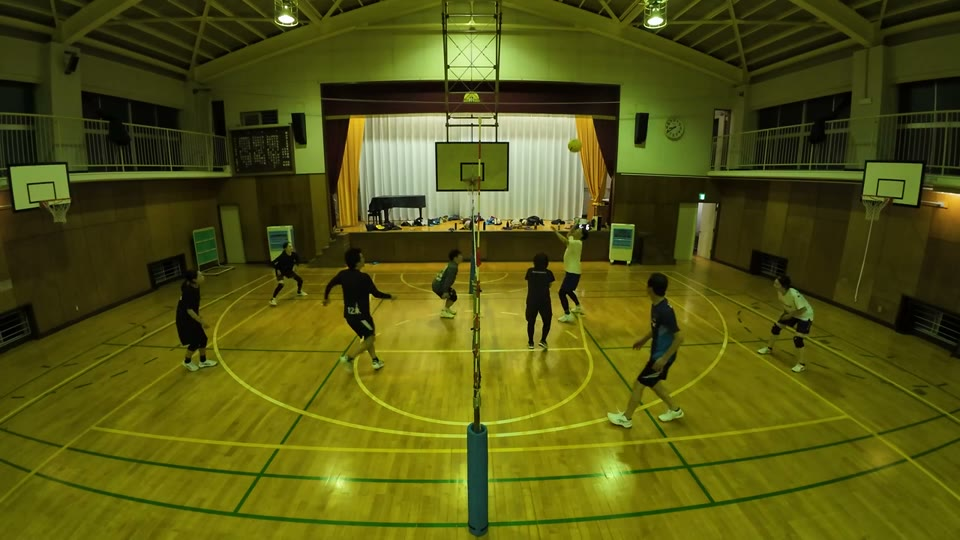
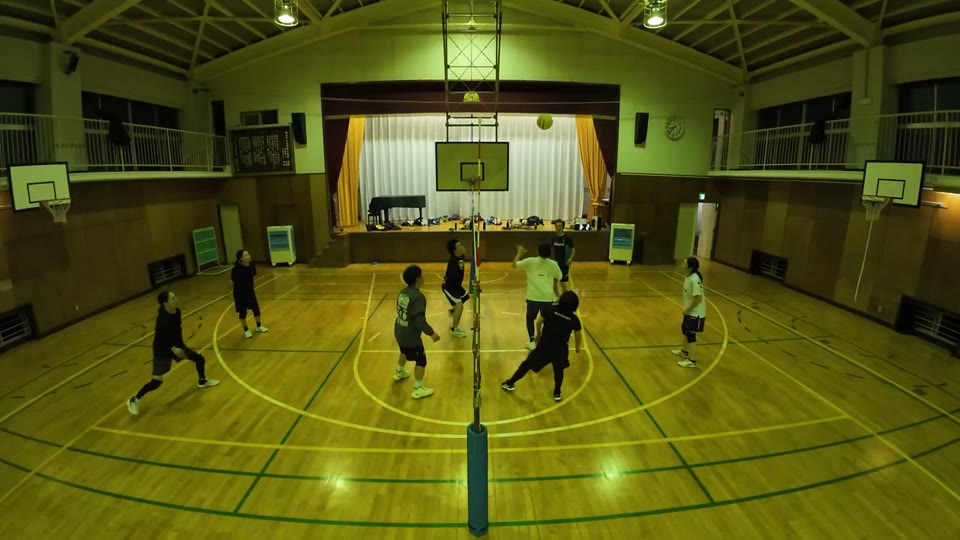
10/24 講評: 賞を11に(ゲストのきりちゃん・まゆみ・こうすけを該当の賞へ統合)

diff --git a/kouhyou/20261024.html b/kouhyou/20261024.html
@@ -383,33 +383,78 @@
       <span class="award-go"><svg viewBox="0 0 24 24" fill="none" stroke="currentColor" stroke-width="2.5"><path d="M9 5l7 7-7 7"></path></svg></span>
     </a>
     <a class="award" href="#award3">
-      <div class="award-faces"><img src="faces/yukiyo.jpg" alt="ゆきよ"><img src="faces/kazue.jpg" alt="かずえ"></div>
+      <div class="award-faces"><img src="faces/yukiyo.jpg" alt="ゆきよ"></div>
       <div class="award-body">
         <div class="award-label">ナイスレシーブ賞</div>
-        <div class="award-who">ゆきよ・かずえ・こうすけ・きりちゃん・まゆみ</div>
-        <div class="award-why">レシーブでつないだ</div>
+        <div class="award-who">ゆきよ・こうすけ・まゆみ</div>
+        <div class="award-why">何度も拾ってつないだ</div>
       </div>
       <span class="award-go"><svg viewBox="0 0 24 24" fill="none" stroke="currentColor" stroke-width="2.5"><path d="M9 5l7 7-7 7"></path></svg></span>
     </a>
     <a class="award" href="#award4">
-      <div class="award-faces"><img src="faces/riru.jpg" alt="りる"><img src="faces/aki.jpg" alt="あき"><img src="faces/yuriko.jpg" alt="ゆりこ"></div>
+      <div class="award-faces"><img src="faces/kazue.jpg" alt="かずえ"></div>
       <div class="award-body">
-        <div class="award-label">トス賞</div>
-        <div class="award-who">りる・あき・ゆりこ・きりちゃん・まゆみ・こうすけ</div>
-        <div class="award-why">トスでつないだ。バックトス・ジャンプトス、ジャッジも</div>
+        <div class="award-label">飛び込み賞</div>
+        <div class="award-who">かずえ・きりちゃん</div>
+        <div class="award-why">レシーブでつないだ</div>
       </div>
       <span class="award-go"><svg viewBox="0 0 24 24" fill="none" stroke="currentColor" stroke-width="2.5"><path d="M9 5l7 7-7 7"></path></svg></span>
     </a>
     <a class="award" href="#award5">
-      <div class="award-faces"><img src="faces/kazuo.jpg" alt="かずお"><img src="faces/yassan.jpg" alt="やっさん"><img src="faces/ken.jpg" alt="けん"><img src="faces/riru.jpg" alt="りる"></div>
+      <div class="award-faces"><img src="faces/riru.jpg" alt="りる"></div>
       <div class="award-body">
-        <div class="award-label">アタック賞</div>
-        <div class="award-who">かずお・やっさん・けん・りる</div>
-        <div class="award-why">アタック、フェイント、ブロックが決まった</div>
+        <div class="award-label">トス名人賞</div>
+        <div class="award-who">りる・まゆみ</div>
+        <div class="award-why">トスが安定。バックトスも。ジャッジも</div>
       </div>
       <span class="award-go"><svg viewBox="0 0 24 24" fill="none" stroke="currentColor" stroke-width="2.5"><path d="M9 5l7 7-7 7"></path></svg></span>
     </a>
     <a class="award" href="#award6">
+      <div class="award-faces"><img src="faces/aki.jpg" alt="あき"></div>
+      <div class="award-body">
+        <div class="award-label">安定トス賞</div>
+        <div class="award-who">あき・きりちゃん</div>
+        <div class="award-why">トスとサーブが安定</div>
+      </div>
+      <span class="award-go"><svg viewBox="0 0 24 24" fill="none" stroke="currentColor" stroke-width="2.5"><path d="M9 5l7 7-7 7"></path></svg></span>
+    </a>
+    <a class="award" href="#award7">
+      <div class="award-faces"><img src="faces/yuriko.jpg" alt="ゆりこ"></div>
+      <div class="award-body">
+        <div class="award-label">つなぎの達人賞</div>
+        <div class="award-who">ゆりこ</div>
+        <div class="award-why">トス、レシーブ、ジャッジ。ラリーを切らさなかった</div>
+      </div>
+      <span class="award-go"><svg viewBox="0 0 24 24" fill="none" stroke="currentColor" stroke-width="2.5"><path d="M9 5l7 7-7 7"></path></svg></span>
+    </a>
+    <a class="award" href="#award8">
+      <div class="award-faces"><img src="faces/kazuo.jpg" alt="かずお"></div>
+      <div class="award-body">
+        <div class="award-label">決めたで賞</div>
+        <div class="award-who">かずお</div>
+        <div class="award-why">アタックを決めた</div>
+      </div>
+      <span class="award-go"><svg viewBox="0 0 24 24" fill="none" stroke="currentColor" stroke-width="2.5"><path d="M9 5l7 7-7 7"></path></svg></span>
+    </a>
+    <a class="award" href="#award9">
+      <div class="award-faces"><img src="faces/yassan.jpg" alt="やっさん"><img src="faces/riru.jpg" alt="りる"></div>
+      <div class="award-body">
+        <div class="award-label">アタック&ブロック賞</div>
+        <div class="award-who">やっさん・りる</div>
+        <div class="award-why">アタック、フェイント、ブロックと、前で活躍</div>
+      </div>
+      <span class="award-go"><svg viewBox="0 0 24 24" fill="none" stroke="currentColor" stroke-width="2.5"><path d="M9 5l7 7-7 7"></path></svg></span>
+    </a>
+    <a class="award" href="#award10">
+      <div class="award-faces"><img src="faces/ken.jpg" alt="けん"></div>
+      <div class="award-body">
+        <div class="award-label">フェイント賞</div>
+        <div class="award-who">けん</div>
+        <div class="award-why">フェイントが決まった</div>
+      </div>
+      <span class="award-go"><svg viewBox="0 0 24 24" fill="none" stroke="currentColor" stroke-width="2.5"><path d="M9 5l7 7-7 7"></path></svg></span>
+    </a>
+    <a class="award" href="#award11">
       <div class="award-faces"><img src="../assets/drop-icon.jpg" alt="まーくん・たくや・みなと"></div>
       <div class="award-body">
         <div class="award-label">ゲスト アタック賞</div>
@@ -443,58 +488,104 @@
     <p>るき のアタック　<a href="https://youtu.be/5DdH6IJD_qU?t=203" target="_blank" rel="noopener">3:25</a> <a href="https://youtu.be/5DdH6IJD_qU?t=359" target="_blank" rel="noopener">6:01</a> <a href="https://youtu.be/5DdH6IJD_qU?t=1409" target="_blank" rel="noopener">23:31</a> <a href="https://youtu.be/5DdH6IJD_qU?t=3257" target="_blank" rel="noopener">54:19</a> <a href="https://youtu.be/5DdH6IJD_qU?t=5021" target="_blank" rel="noopener">83:43</a></p>
   </div>
 
-  <h2 id="award3">ナイスレシーブ賞 — ゆきよ・かずえ・こうすけ・きりちゃん・まゆみ</h2>
+  <h2 id="award3">ナイスレシーブ賞 — ゆきよ・こうすけ・まゆみ</h2>
   <div class="card">
-    <a class="shot" href="https://youtu.be/5DdH6IJD_qU?t=64" target="_blank" rel="noopener">
-      <img src="shots1024/p9l29jh9l49-3.jpg" alt="かずえ のレシーブ" loading="lazy">
+    <a class="shot" href="https://youtu.be/5DdH6IJD_qU?t=707" target="_blank" rel="noopener">
+      <img src="shots1024/p9l29jh9l49-3.jpg" alt="こうすけ のレシーブ" loading="lazy">
       <span class="play"><span><svg viewBox="0 0 24 24"><path d="M8 5v14l11-7z"></path></svg></span></span>
-      <span class="cap"><span class="at">1:06</span></span>
+      <span class="cap"><span class="at">11:49</span></span>
     </a>
-    <p>かずえ のレシーブ　<a href="https://youtu.be/5DdH6IJD_qU?t=64" target="_blank" rel="noopener">1:06</a> <a href="https://youtu.be/5DdH6IJD_qU?t=1143" target="_blank" rel="noopener">19:05</a> <a href="https://youtu.be/5DdH6IJD_qU?t=2966" target="_blank" rel="noopener">49:28</a></p>
     <p>こうすけ のレシーブ　<a href="https://youtu.be/5DdH6IJD_qU?t=707" target="_blank" rel="noopener">11:49</a> <a href="https://youtu.be/5DdH6IJD_qU?t=1094" target="_blank" rel="noopener">18:16</a> <a href="https://youtu.be/5DdH6IJD_qU?t=2728" target="_blank" rel="noopener">45:30</a> <a href="https://youtu.be/5DdH6IJD_qU?t=3251" target="_blank" rel="noopener">54:13</a></p>
-    <p>きりちゃん のレシーブ　<a href="https://youtu.be/5DdH6IJD_qU?t=1003" target="_blank" rel="noopener">16:45</a> <a href="https://youtu.be/5DdH6IJD_qU?t=1008" target="_blank" rel="noopener">16:50</a> <a href="https://youtu.be/5DdH6IJD_qU?t=2343" target="_blank" rel="noopener">39:05</a></p>
     <p>まゆみ のレシーブ　<a href="https://youtu.be/5DdH6IJD_qU?t=2087" target="_blank" rel="noopener">34:49</a> <a href="https://youtu.be/5DdH6IJD_qU?t=2226" target="_blank" rel="noopener">37:08</a> <a href="https://youtu.be/5DdH6IJD_qU?t=2311" target="_blank" rel="noopener">38:33</a></p>
     <p>ゆきよ のレシーブ　<a href="https://youtu.be/5DdH6IJD_qU?t=2733" target="_blank" rel="noopener">45:35</a> <a href="https://youtu.be/5DdH6IJD_qU?t=2844" target="_blank" rel="noopener">47:26</a> <a href="https://youtu.be/5DdH6IJD_qU?t=3196" target="_blank" rel="noopener">53:18</a></p>
   </div>
 
-  <h2 id="award4">トス賞 — りる・あき・ゆりこ・きりちゃん・まゆみ・こうすけ</h2>
+  <h2 id="award4">飛び込み賞 — かずえ・きりちゃん</h2>
   <div class="card">
-    <a class="shot" href="https://youtu.be/5DdH6IJD_qU?t=121" target="_blank" rel="noopener">
-      <img src="shots1024/p9l69l79ob9-4.jpg" alt="ゆりこ のジャッジ" loading="lazy">
+    <a class="shot" href="https://youtu.be/5DdH6IJD_qU?t=64" target="_blank" rel="noopener">
+      <img src="shots1024/p9jf9ju9jc9-4.jpg" alt="かずえ のレシーブ" loading="lazy">
       <span class="play"><span><svg viewBox="0 0 24 24"><path d="M8 5v14l11-7z"></path></svg></span></span>
-      <span class="cap"><span class="at">2:03</span></span>
+      <span class="cap"><span class="at">1:06</span></span>
     </a>
-    <p>ゆりこ のジャッジ　<a href="https://youtu.be/5DdH6IJD_qU?t=121" target="_blank" rel="noopener">2:03</a></p>
+    <p>かずえ のレシーブ　<a href="https://youtu.be/5DdH6IJD_qU?t=64" target="_blank" rel="noopener">1:06</a> <a href="https://youtu.be/5DdH6IJD_qU?t=1143" target="_blank" rel="noopener">19:05</a> <a href="https://youtu.be/5DdH6IJD_qU?t=2966" target="_blank" rel="noopener">49:28</a></p>
+    <p>きりちゃん のレシーブ　<a href="https://youtu.be/5DdH6IJD_qU?t=1003" target="_blank" rel="noopener">16:45</a> <a href="https://youtu.be/5DdH6IJD_qU?t=1008" target="_blank" rel="noopener">16:50</a> <a href="https://youtu.be/5DdH6IJD_qU?t=2343" target="_blank" rel="noopener">39:05</a></p>
+  </div>
+
+  <h2 id="award5">トス名人賞 — りる・まゆみ</h2>
+  <div class="card">
+    <a class="shot" href="https://youtu.be/5DdH6IJD_qU?t=926" target="_blank" rel="noopener">
+      <img src="shots1024/p9l69l79ob9-5.jpg" alt="まゆみ のトス" loading="lazy">
+      <span class="play"><span><svg viewBox="0 0 24 24"><path d="M8 5v14l11-7z"></path></svg></span></span>
+      <span class="cap"><span class="at">15:28</span></span>
+    </a>
     <p>まゆみ のトス　<a href="https://youtu.be/5DdH6IJD_qU?t=926" target="_blank" rel="noopener">15:28</a> <a href="https://youtu.be/5DdH6IJD_qU?t=3528" target="_blank" rel="noopener">58:50</a></p>
     <p>りる のトス　<a href="https://youtu.be/5DdH6IJD_qU?t=945" target="_blank" rel="noopener">15:47</a> <a href="https://youtu.be/5DdH6IJD_qU?t=1689" target="_blank" rel="noopener">28:11</a> <a href="https://youtu.be/5DdH6IJD_qU?t=2823" target="_blank" rel="noopener">47:05</a> <a href="https://youtu.be/5DdH6IJD_qU?t=3016" target="_blank" rel="noopener">50:18</a> <a href="https://youtu.be/5DdH6IJD_qU?t=4148" target="_blank" rel="noopener">69:10</a></p>
-    <p>きりちゃん のトス　<a href="https://youtu.be/5DdH6IJD_qU?t=1056" target="_blank" rel="noopener">17:38</a> <a href="https://youtu.be/5DdH6IJD_qU?t=2312" target="_blank" rel="noopener">38:34</a></p>
-    <p>ゆりこ のトス　<a href="https://youtu.be/5DdH6IJD_qU?t=1617" target="_blank" rel="noopener">26:59</a> <a href="https://youtu.be/5DdH6IJD_qU?t=3663" target="_blank" rel="noopener">61:05</a> <a href="https://youtu.be/5DdH6IJD_qU?t=4374" target="_blank" rel="noopener">72:56</a></p>
-    <p>あき のトス　<a href="https://youtu.be/5DdH6IJD_qU?t=1728" target="_blank" rel="noopener">28:50</a> <a href="https://youtu.be/5DdH6IJD_qU?t=3225" target="_blank" rel="noopener">53:47</a> <a href="https://youtu.be/5DdH6IJD_qU?t=3230" target="_blank" rel="noopener">53:52</a> <a href="https://youtu.be/5DdH6IJD_qU?t=4201" target="_blank" rel="noopener">70:03</a></p>
-    <p>あき のサーブ　<a href="https://youtu.be/5DdH6IJD_qU?t=3529" target="_blank" rel="noopener">58:51</a> <a href="https://youtu.be/5DdH6IJD_qU?t=3576" target="_blank" rel="noopener">59:38</a></p>
     <p>まゆみ のバックトス　<a href="https://youtu.be/5DdH6IJD_qU?t=4736" target="_blank" rel="noopener">78:58</a></p>
     <p>りる のジャッジ　<a href="https://youtu.be/5DdH6IJD_qU?t=4960" target="_blank" rel="noopener">82:42</a></p>
   </div>
 
-  <h2 id="award5">アタック賞 — かずお・やっさん・けん・りる</h2>
+  <h2 id="award6">安定トス賞 — あき・きりちゃん</h2>
+  <div class="card">
+    <a class="shot" href="https://youtu.be/5DdH6IJD_qU?t=1056" target="_blank" rel="noopener">
+      <img src="shots1024/p9j69jh9ob9-6.jpg" alt="きりちゃん のトス" loading="lazy">
+      <span class="play"><span><svg viewBox="0 0 24 24"><path d="M8 5v14l11-7z"></path></svg></span></span>
+      <span class="cap"><span class="at">17:38</span></span>
+    </a>
+    <p>きりちゃん のトス　<a href="https://youtu.be/5DdH6IJD_qU?t=1056" target="_blank" rel="noopener">17:38</a> <a href="https://youtu.be/5DdH6IJD_qU?t=2312" target="_blank" rel="noopener">38:34</a></p>
+    <p>あき のトス　<a href="https://youtu.be/5DdH6IJD_qU?t=1728" target="_blank" rel="noopener">28:50</a> <a href="https://youtu.be/5DdH6IJD_qU?t=3225" target="_blank" rel="noopener">53:47</a> <a href="https://youtu.be/5DdH6IJD_qU?t=3230" target="_blank" rel="noopener">53:52</a> <a href="https://youtu.be/5DdH6IJD_qU?t=4201" target="_blank" rel="noopener">70:03</a></p>
+    <p>あき のサーブ　<a href="https://youtu.be/5DdH6IJD_qU?t=3529" target="_blank" rel="noopener">58:51</a> <a href="https://youtu.be/5DdH6IJD_qU?t=3576" target="_blank" rel="noopener">59:38</a></p>
+  </div>
+
+  <h2 id="award7">つなぎの達人賞 — ゆりこ</h2>
+  <div class="card">
+    <a class="shot" href="https://youtu.be/5DdH6IJD_qU?t=121" target="_blank" rel="noopener">
+      <img src="shots1024/yuriko-7.jpg" alt="ゆりこ のジャッジ" loading="lazy">
+      <span class="play"><span><svg viewBox="0 0 24 24"><path d="M8 5v14l11-7z"></path></svg></span></span>
+      <span class="cap"><span class="at">2:03</span></span>
+    </a>
+    <p>ゆりこ のジャッジ　<a href="https://youtu.be/5DdH6IJD_qU?t=121" target="_blank" rel="noopener">2:03</a></p>
+    <p>ゆりこ のレシーブ　<a href="https://youtu.be/5DdH6IJD_qU?t=316" target="_blank" rel="noopener">5:18</a> <a href="https://youtu.be/5DdH6IJD_qU?t=3510" target="_blank" rel="noopener">58:32</a></p>
+    <p>ゆりこ のトス　<a href="https://youtu.be/5DdH6IJD_qU?t=1617" target="_blank" rel="noopener">26:59</a> <a href="https://youtu.be/5DdH6IJD_qU?t=3663" target="_blank" rel="noopener">61:05</a> <a href="https://youtu.be/5DdH6IJD_qU?t=4374" target="_blank" rel="noopener">72:56</a></p>
+  </div>
+
+  <h2 id="award8">決めたで賞 — かずお</h2>
+  <div class="card">
+    <a class="shot" href="https://youtu.be/5DdH6IJD_qU?t=860" target="_blank" rel="noopener">
+      <img src="shots1024/kazuo-8.jpg" alt="かずお のアタック" loading="lazy">
+      <span class="play"><span><svg viewBox="0 0 24 24"><path d="M8 5v14l11-7z"></path></svg></span></span>
+      <span class="cap"><span class="at">14:22</span></span>
+    </a>
+    <p>かずお のアタック　<a href="https://youtu.be/5DdH6IJD_qU?t=860" target="_blank" rel="noopener">14:22</a> <a href="https://youtu.be/5DdH6IJD_qU?t=3665" target="_blank" rel="noopener">61:07</a> <a href="https://youtu.be/5DdH6IJD_qU?t=3807" target="_blank" rel="noopener">63:29</a></p>
+  </div>
+
+  <h2 id="award9">アタック&ブロック賞 — やっさん・りる</h2>
   <div class="card">
     <a class="shot" href="https://youtu.be/5DdH6IJD_qU?t=791" target="_blank" rel="noopener">
-      <img src="shots1024/p9jf9ju9je9-5.jpg" alt="りる のアタック" loading="lazy">
+      <img src="shots1024/p9l09k39jp9-9.jpg" alt="りる のアタック" loading="lazy">
       <span class="play"><span><svg viewBox="0 0 24 24"><path d="M8 5v14l11-7z"></path></svg></span></span>
       <span class="cap"><span class="at">13:13</span></span>
     </a>
     <p>りる のアタック　<a href="https://youtu.be/5DdH6IJD_qU?t=791" target="_blank" rel="noopener">13:13</a></p>
-    <p>かずお のアタック　<a href="https://youtu.be/5DdH6IJD_qU?t=860" target="_blank" rel="noopener">14:22</a> <a href="https://youtu.be/5DdH6IJD_qU?t=3665" target="_blank" rel="noopener">61:07</a> <a href="https://youtu.be/5DdH6IJD_qU?t=3807" target="_blank" rel="noopener">63:29</a></p>
     <p>やっさん のフェイント　<a href="https://youtu.be/5DdH6IJD_qU?t=962" target="_blank" rel="noopener">16:04</a> <a href="https://youtu.be/5DdH6IJD_qU?t=3052" target="_blank" rel="noopener">50:54</a></p>
     <p>やっさん のアタック　<a href="https://youtu.be/5DdH6IJD_qU?t=1057" target="_blank" rel="noopener">17:39</a> <a href="https://youtu.be/5DdH6IJD_qU?t=1101" target="_blank" rel="noopener">18:23</a> <a href="https://youtu.be/5DdH6IJD_qU?t=2824" target="_blank" rel="noopener">47:06</a> <a href="https://youtu.be/5DdH6IJD_qU?t=4202" target="_blank" rel="noopener">70:04</a></p>
-    <p>けん のアタック　<a href="https://youtu.be/5DdH6IJD_qU?t=3512" target="_blank" rel="noopener">58:34</a></p>
-    <p>けん のフェイント　<a href="https://youtu.be/5DdH6IJD_qU?t=3628" target="_blank" rel="noopener">60:30</a> <a href="https://youtu.be/5DdH6IJD_qU?t=3715" target="_blank" rel="noopener">61:57</a></p>
     <p>りる のフェイント　<a href="https://youtu.be/5DdH6IJD_qU?t=4184" target="_blank" rel="noopener">69:46</a></p>
   </div>
 
-  <h2 id="award6">ゲスト アタック賞 — まーくん・たくや・みなと</h2>
+  <h2 id="award10">フェイント賞 — けん</h2>
+  <div class="card">
+    <a class="shot" href="https://youtu.be/5DdH6IJD_qU?t=3512" target="_blank" rel="noopener">
+      <img src="shots1024/ken-10.jpg" alt="けん のアタック" loading="lazy">
+      <span class="play"><span><svg viewBox="0 0 24 24"><path d="M8 5v14l11-7z"></path></svg></span></span>
+      <span class="cap"><span class="at">58:34</span></span>
+    </a>
+    <p>けん のアタック　<a href="https://youtu.be/5DdH6IJD_qU?t=3512" target="_blank" rel="noopener">58:34</a></p>
+    <p>けん のフェイント　<a href="https://youtu.be/5DdH6IJD_qU?t=3628" target="_blank" rel="noopener">60:30</a> <a href="https://youtu.be/5DdH6IJD_qU?t=3715" target="_blank" rel="noopener">61:57</a></p>
+  </div>
+
+  <h2 id="award11">ゲスト アタック賞 — まーくん・たくや・みなと</h2>
   <div class="card">
     <a class="shot" href="https://youtu.be/5DdH6IJD_qU?t=66" target="_blank" rel="noopener">
-      <img src="shots1024/p9ku9oc9jj9-6.jpg" alt="たくや のアタック" loading="lazy">
+      <img src="shots1024/p9ku9oc9jj9-11.jpg" alt="たくや のアタック" loading="lazy">
       <span class="play"><span><svg viewBox="0 0 24 24"><path d="M8 5v14l11-7z"></path></svg></span></span>
       <span class="cap"><span class="at">1:08</span></span>
     </a>
